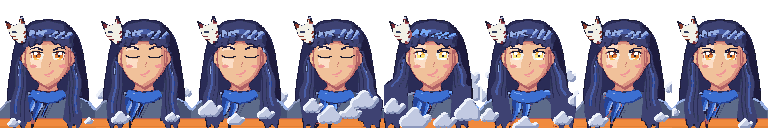
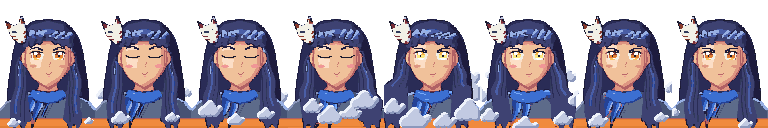
Shade: centred pixel mouth (subtle smirk), skill note
Claude-Session: https://claude.ai/code/session_01J8LgTLVYzThXjNSRVhWqep

diff --git a/tools/sprites/anime_flicker.py b/tools/sprites/anime_flicker.py
@@ -48,7 +48,7 @@ F_ORANGE = {ORANGE, LIGHT_OR, FOR_D}
 F_MASK = {CREAM, FSM, FSM_L}
 
 F_EYE_GAP = {k: v["gap"] for k, v in ab.EYES.items()}      # Sakura's eye-centre spacing per eye shape (9.6 for animeB)
-FBASE = dict(mouth="smirk", hair="long", eyes="animeB", mask="side", scarf="tail", outfit="cross", bangs="curtain", cheeks=-0.03,
+FBASE = dict(mouth="m_b", hair="long", eyes="animeB", mask="side", scarf="tail", outfit="cross", bangs="curtain", cheeks=-0.03,
              eye_h=1.0, eye_gap=0.0, lift=0.0, wind=0.0, nose="tick", iris="ember", mode="open", sidelock=False)
 
 
@@ -356,6 +356,8 @@ def f_mouth(d, kind):
     if kind == "shout":
         return F_ORIG_MOUTH(d, kind)
     m = F_MOUTH[0]
+    if m.startswith("m_"):
+        return                  # drawn as exact pixels after the pixel art (f_mouth_px)
     det = 0.5 if kind == "determined" else 0.0
     ab.YOFF[0] = -2.7
     col = lc(LIP)
@@ -508,6 +510,7 @@ def make_frame(sway, expr, cfg=None, extra=None):
     else:
         ab.add_brows(out)
     f_nose(out, cfg["nose"])
+    f_mouth_px(out, cfg["mouth"], expr)
     if cfg["mode"] == "flash":
         f_flash(out)
     return out
@@ -787,7 +790,7 @@ def f_nose(out, kind):
             px[x, y] = {"S": SK_S, "L": SK_L, "N": F_NOSE_TONE}[c] + (255,)
 
 
-def f_noses_sheet(review, flint_frame, keys=None, name="flicker_noses"):
+def f_noses_sheet(review, flint_frame, keys=None, name="flicker_noses", field="nose"):
     keys = keys or F_NOSE_KEYS
     from PIL import ImageFont
     S = 4
@@ -795,7 +798,7 @@ def f_noses_sheet(review, flint_frame, keys=None, name="flicker_noses"):
     box = (22, 44, 74, 86)                          # eyes to mouth
     cwid, chei = box[2] - box[0], box[3] - box[1]
     cw = cwid * S + 8
-    tiles = [("Flint", flint_frame.crop(box))] + [(lab, make_frame(-1, "calm", dict(F_SHIP, nose=k)).crop(box)) for lab, k, _ in keys]
+    tiles = [("Flint", flint_frame.crop(box))] + [(lab, make_frame(-1, "calm", dict(F_SHIP, **{field: k})).crop(box)) for lab, k, _ in keys]
     sheet = Image.new("RGBA", (cw * len(tiles) + 8, chei * S + 50 + chei + 16), bg)
     try:
         font = ImageFont.load_default(size=34)
@@ -810,6 +813,43 @@ def f_noses_sheet(review, flint_frame, keys=None, name="flicker_noses"):
     with open(os.path.join(review, name + "_key.txt"), "w") as fh:
         for lab, k, text in keys:
             fh.write(text + "\n")
+
+
+# ---------------------------------------------------------------- mouth v2: centred under the nose, exact pixels (calm / determined; shout keeps Sakura's open mouth)
+F_LIPD = (186, 102, 106)            # line tone between LIP and the nose shadow
+F_FANG_D = (150, 72, 86)
+# output-px (x, y, tone): L = line, T = lower-lip tint, H = lower-lip highlight, D = darker dimple
+F_MOUTHS2 = {
+    "m_a": ([(46, 73), (47, 74), (48, 74), (49, 74), (50, 74), (51, 73)], [(48, 76), (49, 76)], [], []),
+    "m_b": ([(46, 73), (47, 74), (48, 74), (49, 74), (50, 73), (51, 72)], [(48, 76), (49, 76)], [], []),
+    "m_c": ([(47, 73), (48, 74), (49, 74), (50, 74), (51, 73)], [(48, 76), (50, 76)], [(49, 76)], []),
+    "m_d": ([(46, 73), (47, 74), (48, 74), (49, 74), (50, 74), (51, 73)], [(48, 76), (49, 76)], [], [(52, 72)]),
+}
+F_MOUTHS2_DET = {          # determined: the same mouth with the corners set flatter
+    "m_a": [(46, 74), (47, 74), (48, 74), (49, 74), (50, 74), (51, 73)],
+    "m_b": [(46, 74), (47, 74), (48, 74), (49, 74), (50, 74), (51, 73)],
+    "m_c": [(47, 74), (48, 74), (49, 74), (50, 74), (51, 73)],
+    "m_d": [(46, 74), (47, 74), (48, 74), (49, 74), (50, 74), (51, 73)],
+}
+F_MOUTH_KEYS2 = [("A", "m_a", "A: centred soft closed smile, 6 px, both corners up 1 px, tint under"),
+                 ("B", "m_b", "B: A with the right corner up 1 px extra (subtle smirk, mostly horizontal) (shipped)"),
+                 ("C", "m_c", "C: shorter 5 px smile with a tiny lower-lip highlight (cute)"),
+                 ("D", "m_d", "D: A + a darker 1 px dimple at the right corner")]
+
+
+def f_mouth_px(out, kind, expr):
+    if expr == "shout" or kind not in F_MOUTHS2:
+        return
+    line, tint, hi, dim = F_MOUTHS2[kind]
+    if expr == "determined":
+        line = F_MOUTHS2_DET[kind]
+        dim = [(x, y + 1) for x, y in dim]
+    px = out.load()
+    skin = {SK, SK_L, SK_S, SK_D, BLUSH}
+    for pts, col in ((tint, BLUSH), (hi, SK_L), (line, F_LIPD), (dim, F_FANG_D)):
+        for x, y in pts:
+            if px[x, y][3] and px[x, y][:3] in skin | {F_LIPD}:
+                px[x, y] = col + (255,)
 
 
 def f_sakura_chins(out_dir):
@@ -834,6 +874,7 @@ def main():
         f_noses_sheet(review, flint)
         f_noses_sheet(review, flint, F_NOSE_KEYS2, "flicker_noses2")
         f_noses_sheet(review, flint, F_NOSE_KEYS3, "flicker_noses3")
+        f_noses_sheet(review, flint, F_MOUTH_KEYS2, "flicker_mouths2", "mouth")
         f_variants_sheet(review, flint, "flicker_mouths", [(l, dict(F_SHIP, mouth=k), t) for l, k, t in F_MOUTHS])
     frames = f_bust_frames()
     strip = Image.new("RGBA", (W * 4, H), (0, 0, 0, 0))

diff --git a/.claude/skills/anime-pixel-art/SKILL.md b/.claude/skills/anime-pixel-art/SKILL.md
@@ -106,6 +106,15 @@ Same session, for the record: eyes are 12% lower and 1.0 unit wider apart than S
 2.5 x (1 - eye_h) units; the squash is applied to the finished eye in source space, `f_squash_eyes`), the mouth is her own one-sided smirk
 (`f_mouth`), and closed eyes keep ink lids (recolor keep box) with brows 1 px higher.
 
+**Approved mouth (Shade, 2026-11-06)**: a long diagonal drawn stroke (her first smirk, 8-10 px, climbing across the face) was rejected as too long, too
+slanted, off-centre under the new nose and low contrast. Mouths are now small exact pixels AFTER the pixel art (`f_mouth_px`, `F_MOUTHS2`
+in `tools/sprites/anime_flicker.py`; the drawn source mouth is skipped for these, the open shout mouth is still Sakura's): CENTRED under the nose
+(mouth centre x 48-49 output px, line at y 72-74, the lids at ~56, the nose tip at (49, 66)), 6 px wide, line tone `F_LIPD` (186, 102, 106)
+(between `LIP` and the nose shadow, darker than Sakura's so it reads at x1), a 1-2 px lighter `BLUSH` tint under it at y 76. Shipped **B** (subtle smirk,
+still mostly horizontal): (46, 73) (47, 74) (48, 74) (49, 74) (50, 73) (51, 72), tint (48, 76) (49, 76). Others: A both corners up 1 px, C 5 px
+with a `SK_L` highlight under the centre, D = A + a darker dimple pixel at (52, 72). Determined = the same mouth with the corners flatter
+(left half set to y 74, right corner (51, 73)). Keep >= 5-6 px wide; don't let it drift left or climb more than ~2 px.
+
 **Eyes** (option B = `EYES["animeB"]`, drawn by `s_eye_anime`): ~6.6 wide x 5.2 tall (never bigger; chibi / hearts / "alien"
 came from big dark irises and a V lower lid), centres 24 +- 4.8, cy 27.8. Upper lash = thick ARCH peaking at t 0.62 (outward of
 centre), 8 -> 12 source px, with a small wing at the outer corner; lower lid nearly flat, a thin light line on the OUTER third only.
